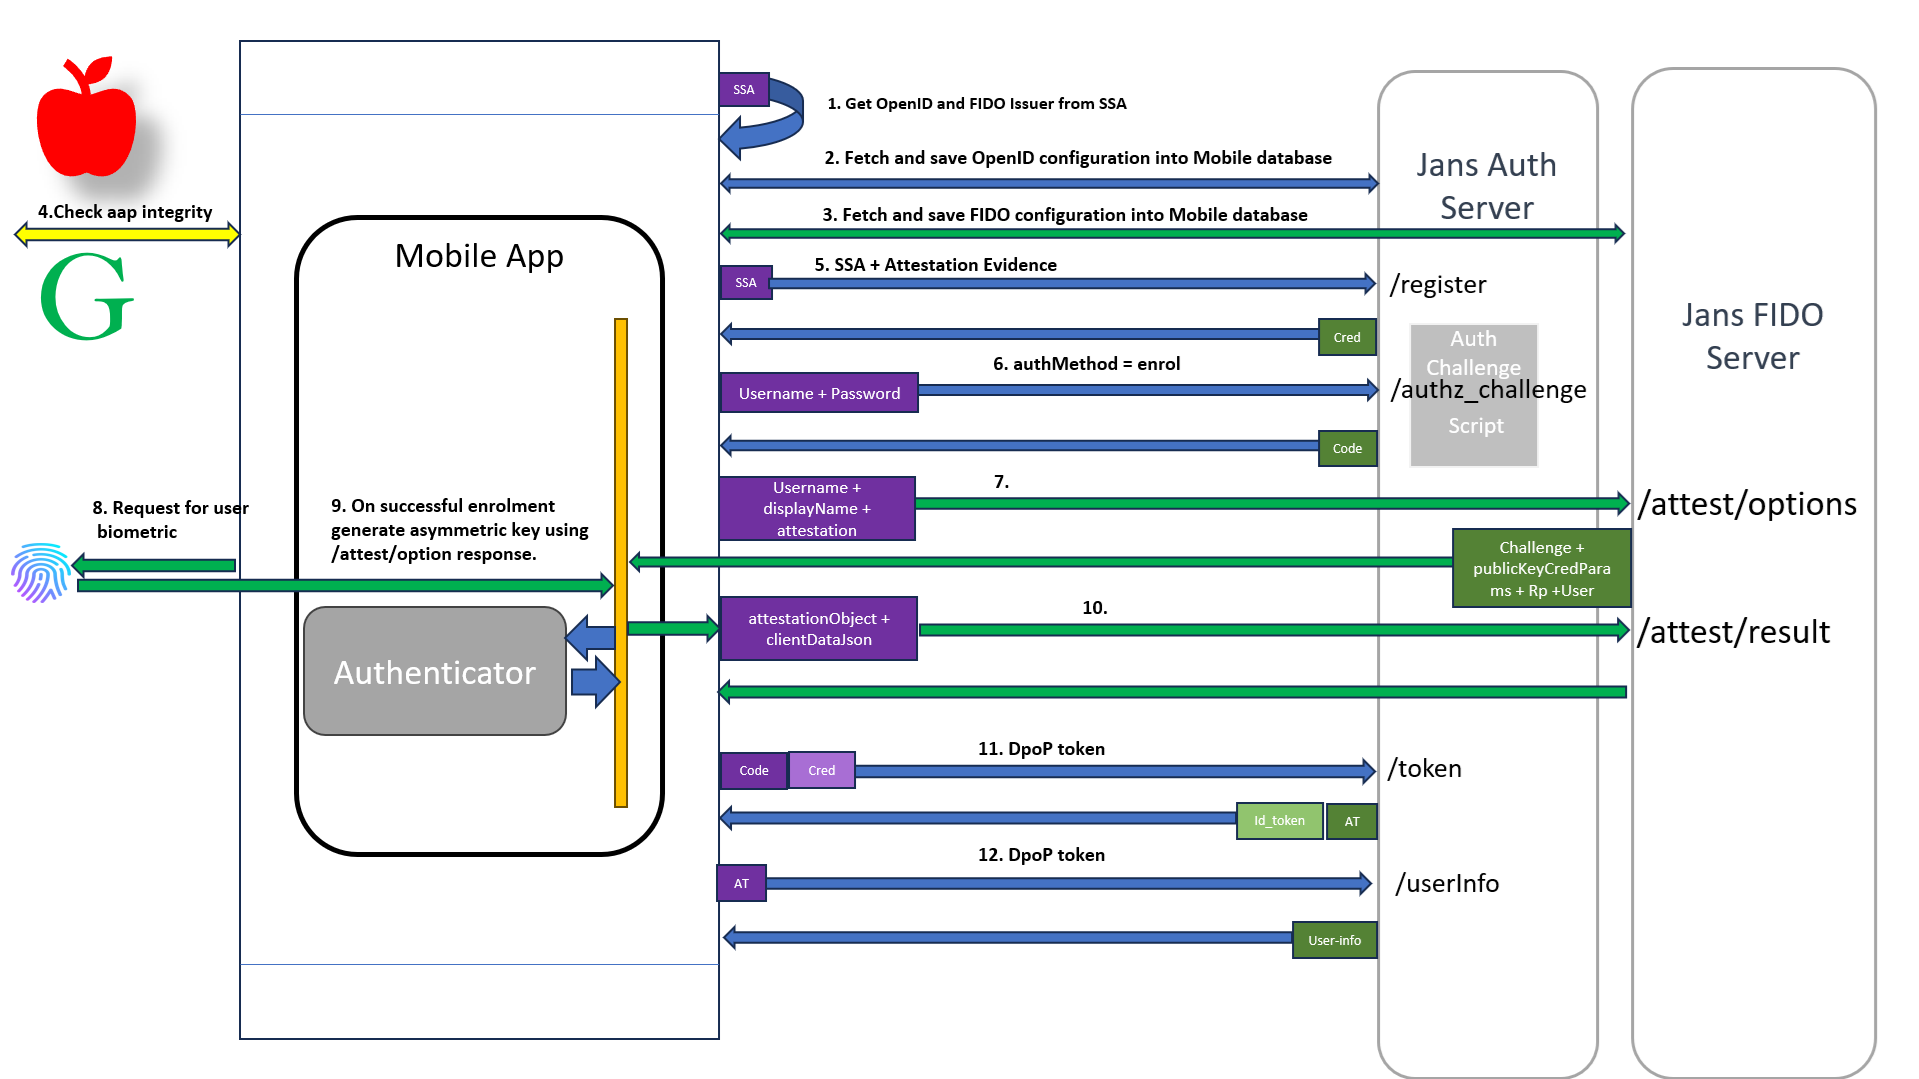
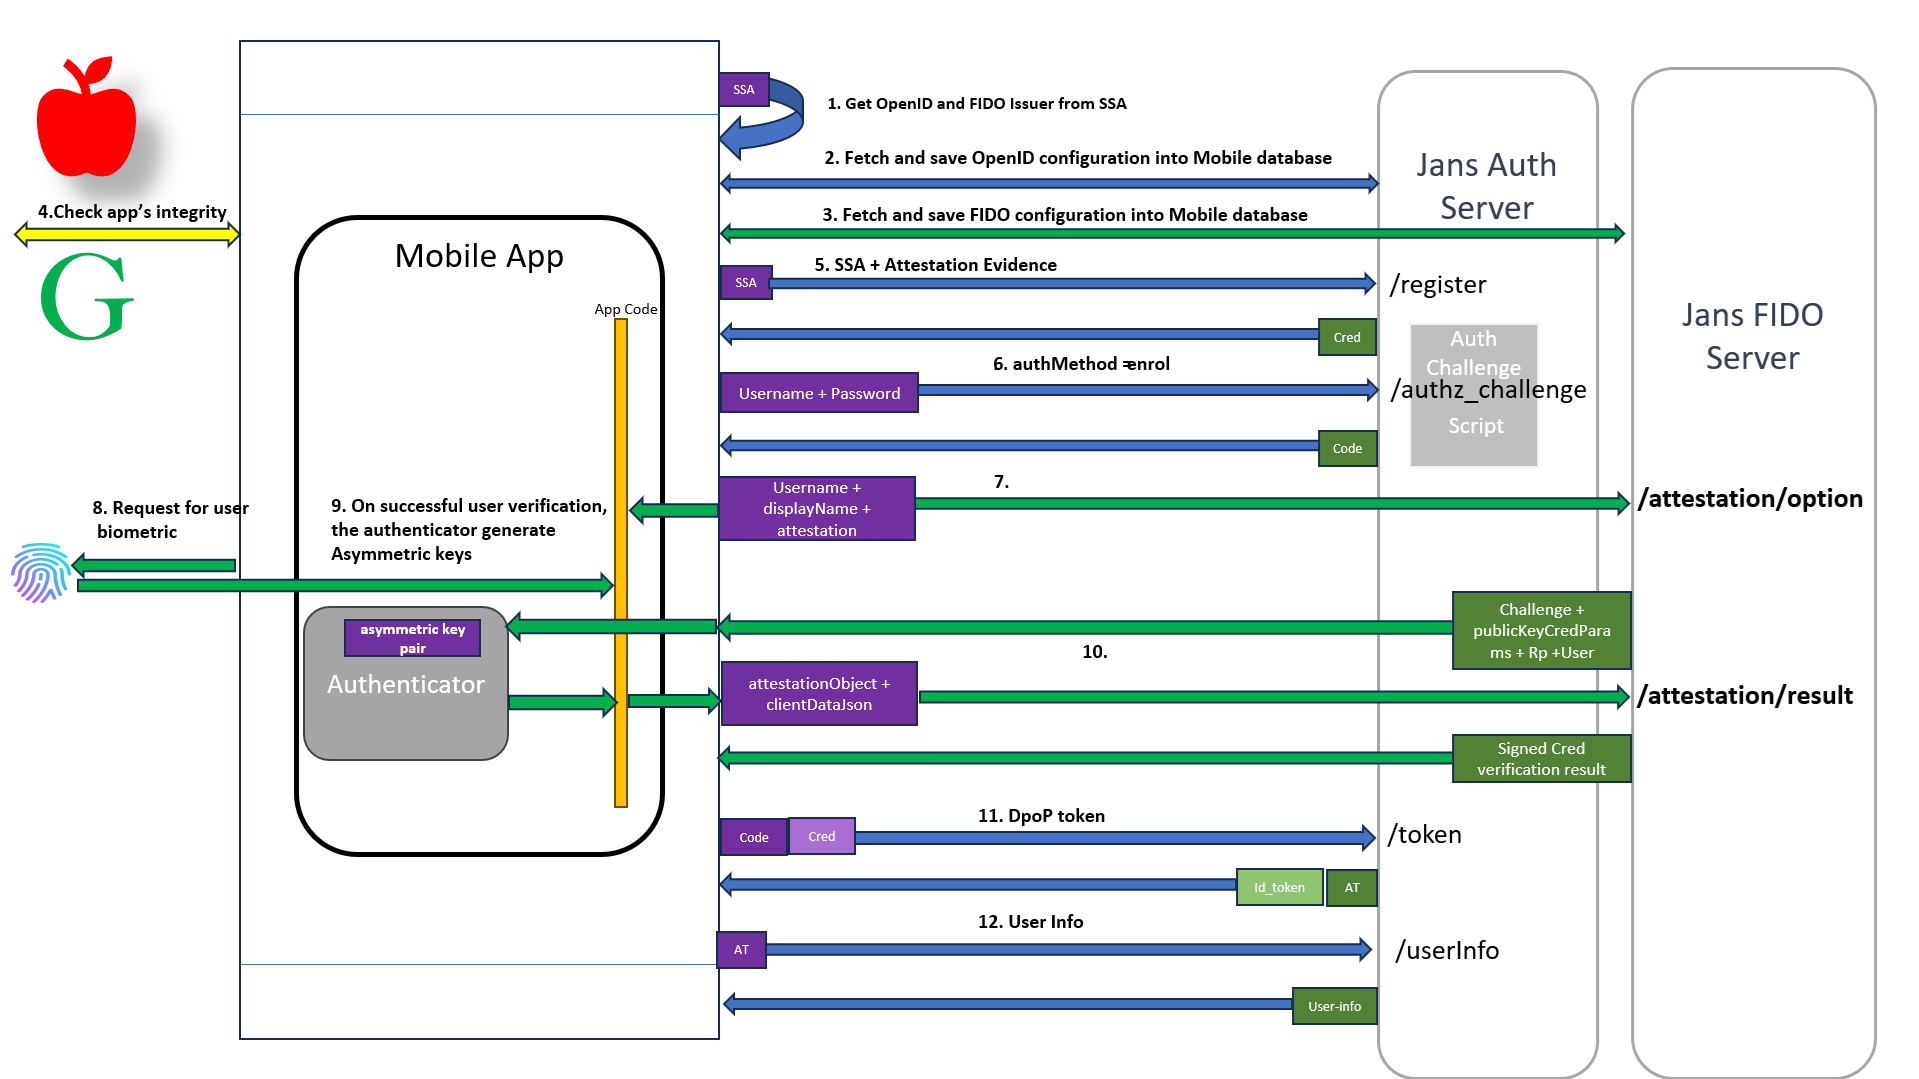
chore: modify readme

diff --git a/demos/jans-chip/android/app/src/main/java/io/jans/chip/viewmodel/MainViewModel.kt b/demos/jans-chip/android/app/src/main/java/io/jans/chip/viewmodel/MainViewModel.kt
@@ -220,10 +220,6 @@ class MainViewModel : ViewModel() {
         return logoutResponse
     }
 
-    suspend fun getUserInfoWithAccessToken(accessToken: String?): UserInfoResponse? {
-        return userInfoResponseRepository.getUserInfo(accessToken)
-    }
-
     suspend fun getOIDCClient(): OIDCClient? {
         val oidcClient: OIDCClient? = dcrRepository.getOIDCClient()
         if (oidcClient?.isSuccessful == true) {

diff --git a/demos/jans-chip/android/README.md b/demos/jans-chip/android/README.md
@@ -1,6 +1,7 @@
 # Jans Chip
 
 ## A  first party android mobile application that leverages dynamic client registration (DCR), DPoP access tokens.
+## Passkey authentication
 
 [Demo Video](https://www.loom.com/embed/66e145e3bba4406ebda53715168ca8f9?sid=e946f580-587e-4c55-8ea8-3845d6ae4ce9)
 
@@ -11,9 +12,34 @@
 
 ![](./docs/enrolment.png)
 
+##### Mobile application loading
+
+1. The mobile application distribution includes the [SSA](https://docs.Janssen.io/v1.1.3/admin/auth-server/endpoints/ssa/#software-statement-assertion-ssa) (Software Statement Assertion) generated from the Janssen Auth Server. The application reads OpenID and FIDO issuers from the SSA.
+2. & 3. The application fetches OpenID and FIDO configurations to the mobile database.
+4. To mitigate the risk of app tampering and the use of fraudulent devices, the integrity of the app and device, for Android applications can be verified using the [Play Integrity API](https://developer.android.com/google/play/integrity).
+5. The application performs [DCR](https://docs.Janssen.io/v1.1.3/admin/auth-server/endpoints/client-registration/#dynamic-client-registration-dcr) (Dynamic Client Registration) against the Auth Server using the SSA. To use attestation in OAuth 2.0 Dynamic Client Registration, the app generates evidence in JWT format containing verifiable claims like app_id and app-checksum. The integrity verdict from the Play Integrity API can be added as a claim in the evidence JWT for attested DCR. This claim is then verified by the designated verifier to ensure the trustworthiness of both the app and the Android device. Based on this verification, the DCR is either approved or rejected.
+
+##### Passkey Enrolment
+
+6. Once the application is loaded, it shows the enrollment screen where the user can submit their username/password (for users already registered on the auth server). The app requests the Janssen Auth server's Authorization Challenge Endpoint to exchange an authorization code for the correct username/password. The Janssen auth server provides an AuthorizationChallengeType custom script which is used to control Authorization Challenge Endpoint behavior. During user enrollment in the app, username and password verification is expertly guided by the Authorization Challenge script.
+7. After verifying the username/password, the app calls the Janssen FIDO Server's [/attestation/options](https://github.com/JanssensenProject/Janssen/blob/main/Janssen-fido2/docs/JanssenFido2Swagger.yaml) endpoint with the username, displayname, and attestation (none) request parameters. The Janssen FIDO Server returns information about the user, the RP, and the type of credential desired.
+8. To perform user verification, the mobile app requests the user's fingerprint impression.
+9. On successful fingerprint verification, the authenticator library inside the app creates a new asymmetric key pair and safely stores the private key. The public key, a credential ID, and other attestation data are converted to an attestationObject by the authenticator.
+10. The app calls the Janssen FIDO Server's [/attestation/reult](https://github.com/JanssensenProject/Janssen/blob/main/Janssen-fido2/docs/JanssenFido2Swagger.yaml) endpoint with the attestationObject and clientDataJSON (a byte array containing the challenge sent by the RP, the origin of the domain observed by the client, and the type of operation performed) request parameters. The Janssen FIDO Server verifies the request and sends the success/failure response.
+11. Using the authorization code obtained in step #6, the app requests an access token from the Janssen Auth Server using the token endpoint. The token is of type [DpoP](https://datatracker.ietf.org/doc/html/draft-ietf-oauth-dpop-16).
+12. Using the access token, user info is fetched from the Janssen Auth Server, and the user details page is shown on the app with the user info.
+
 #### Authentication
 
 ![](./docs/authentication.png)
+
+1. The mobile application displays already enrolled passkeys with it. On selecting a passkey it makes request to [/assertion/options](https://github.com/JanssenProject/jans/blob/main/jans-fido2/docs/jansFido2Swagger.yaml) of Janssen FIDO server.
+2. The response of `/assertion/options` contains the challenge and the allowCredentials field which contains a list of previously registered credentials.
+3. The app requests the user for biometric input (thumb impression). 
+4. One the user is verified, the authenticator finds a credential that matches the Relying Party ID and creates a new assertion by signing over the clientDataHash and authenticatorData with the private key generated for this account during enrolment.
+5. The app then make request to [/assertion/result](https://github.com/JanssenProject/jans/blob/main/jans-fido2/docs/jansFido2Swagger.yaml)  of Janssen FIDO server with authenticatorData and assertion signature. 
+6. The FIDO server performs validation and responds with success or failure response. This request is made through Authorization Challenge Endpoint script so that authorization code is sent on success of `/assertion/result` request.
+7. & 8.  Using the authorization code, the app exchanges an access token and then user-info from Janssen Auth server.
 
 ### Prerequisite
 
